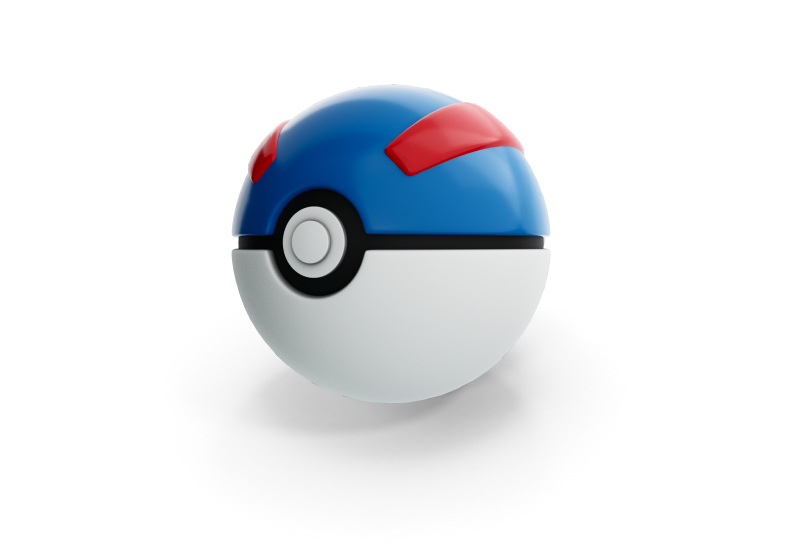
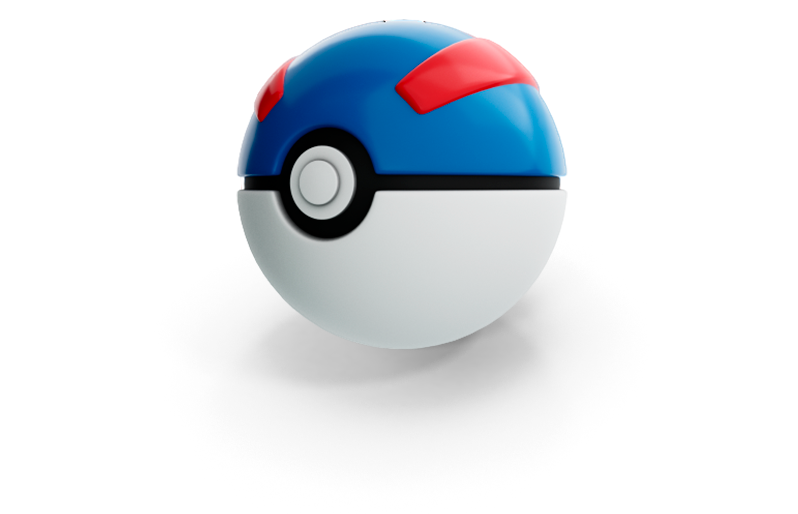
fix mobile layout of the hero section

diff --git a/src/pages/Home.jsx b/src/pages/Home.jsx
@@ -162,20 +162,23 @@ function Home() {
         <Swiper pagination={true} modules={[Pagination, EffectFade]} effect="fade" className={`${styles.slideWrapper} slide-pokeballs`}>
           <SwiperSlide className={`${styles.slide} ${styles.red}`}>
             <div className={`${styles.container} container`}>
-              <div className={styles.tag}>
-                <div className={styles.iconWrapper}>
-                  <img src={bag} alt="a bag"/>
-                </div>
-                <span>pokedex</span>
-              </div>
               <div className={styles.text}>
+                <div className={styles.tag}>
+                  <div className={styles.iconWrapper}>
+                    <img src={bag} alt="a bag"/>
+                  </div>
+                  <span>pokedex</span>
+                </div>
+
                 <h1>Who is that Pokémon?</h1>
                 <p>The perfect guide for those who want to hunt Pokémons around the world</p>
               </div>
+
               <div className={styles.imgs}>
                 <img src={lighting} alt="lights" className={styles.lighting} />
                 <img src={redPokeball} alt="a red pokeball" className={styles.pokeball} />
               </div>
+              
               <div className={styles.explore} onClick={scrollToPokemons}>
                 <span>Explore</span>
                 <div className={styles.iconWrapper}>
@@ -186,26 +189,26 @@ function Home() {
           </SwiperSlide>
           <SwiperSlide className={`${styles.slide} ${styles.blue}`}>
             <div className={`${styles.container} container`}>
-              <div className={styles.tag}>
-                <div className={styles.iconWrapper}>
-                  <img src={bag} alt="a bag"/>
-                </div>
-                <span>pokedex</span>
-              </div>
               <div className={styles.text}>
+                <div className={styles.tag}>
+                  <div className={styles.iconWrapper}>
+                    <img src={bag} alt="a bag"/>
+                  </div>
+                  <span>pokedex</span>
+                </div>
                 <h1>Catch them all!</h1>
                 <p>The perfect guide for those who want to hunt Pokémons around the world</p>
               </div>
+
               <div className={styles.imgs}>
                 <img src={lighting} alt="lights" className={styles.lighting} />
                 <img src={bluePokeball} alt="a red pokeball" className={styles.pokeball} />
               </div>
-              <div className={styles.controls}>
-                <div className={styles.explore} onClick={scrollToPokemons}>
-                  <span>Explore</span>
-                  <div className={styles.iconWrapper}>
-                    <img src={arrowDown} alt="explore pokemons" />
-                  </div>
+
+              <div className={styles.explore} onClick={scrollToPokemons}>
+                <span>Explore</span>
+                <div className={styles.iconWrapper}>
+                  <img src={arrowDown} alt="explore pokemons" />
                 </div>
               </div>
             </div>

diff --git a/src/pages/home.module.css b/src/pages/home.module.css
@@ -50,27 +50,11 @@
     display: flex;
     align-items: center;
     flex-direction: column;
-    height: 840px;
+    justify-content: space-between;
+    height: 830px;
     position: relative;
     z-index: 3;
     pointer-events: none;
-}
-
-.slide .imgs {
-    position: relative;
-}
-
-.slide.blue .imgs .pokeball {
-    position: relative;
-    top: -65px;
-    left: 13px;
-}
-
-.slide .imgs .lighting {
-    position: absolute;
-    top: 0;
-    left: 50%;
-    transform: translate3d(-50%, -100%, 0)
 }
 
 .tag {
@@ -80,7 +64,7 @@
     column-gap: 8px;
     border-radius: 244px;
     padding: 4px 18px 4px 6px;
-    margin-bottom: 28px;
+    margin-bottom: 24px;
 }
 
 .tag .iconWrapper {
@@ -117,7 +101,6 @@
     flex-direction: column;
     align-items: center;
     row-gap: 8px;
-    margin-bottom: 96px;
 }
 
 .text p {
@@ -130,11 +113,12 @@
     display: flex;
     flex-direction: column;
     align-items: center;
+    justify-content: center;
     max-width: 798px;
 }
 
 .imgs .lighting {
-    max-width: 169px;
+    max-width: 200px;
 }
 
 .explore {
@@ -228,8 +212,13 @@
         background-size: 1000px, cover;
     }
 
-    .slide.blue .imgs .pokeball {
-        top: -100px;
+    .slide .container {
+        height: 800px;
+    }
+
+    .slide .imgs {
+        position: relative;
+        top: -130px;
     }
 
     .text {
@@ -247,7 +236,7 @@
     }
 
     .imgs {
-        max-width: 600px;
+        max-width: 500px;
     }
 
     .search .container {
@@ -258,6 +247,10 @@
         padding-bottom: 32px;
     }
 
+    .search h2 {
+        text-align: center;
+    }
+
     .pokemons .container {
         grid-template-columns: 1fr;
         justify-items: center;
@@ -265,5 +258,48 @@
 
     .pokemons .content {
         align-items: center;
+    }
+}
+
+@media(max-width: 640px) {
+    .slide {
+        background-size: 760px, cover;
+        background-position: bottom 280px center;
+    }
+
+    .slide .container {
+        height: 740px;
+        overflow-x: clip;
+    }
+
+    .slide .imgs {
+        top: -160px;
+    }
+
+    .slide.blue h1 {
+        max-width: 250px;
+    }
+
+    .slide p {
+        max-width: 320px;
+    }
+
+    .slide .imgs {
+        width: 380px;
+        flex-shrink: 0;
+    }
+
+    .explore {
+        bottom: calc(288px + 20px);
+        row-gap: 28px;
+    }
+
+    .explore .iconWrapper {
+        width: 24px;
+        height: 24px;
+    }
+
+    .search h2 {
+        max-width: 220px;
     }
 }
